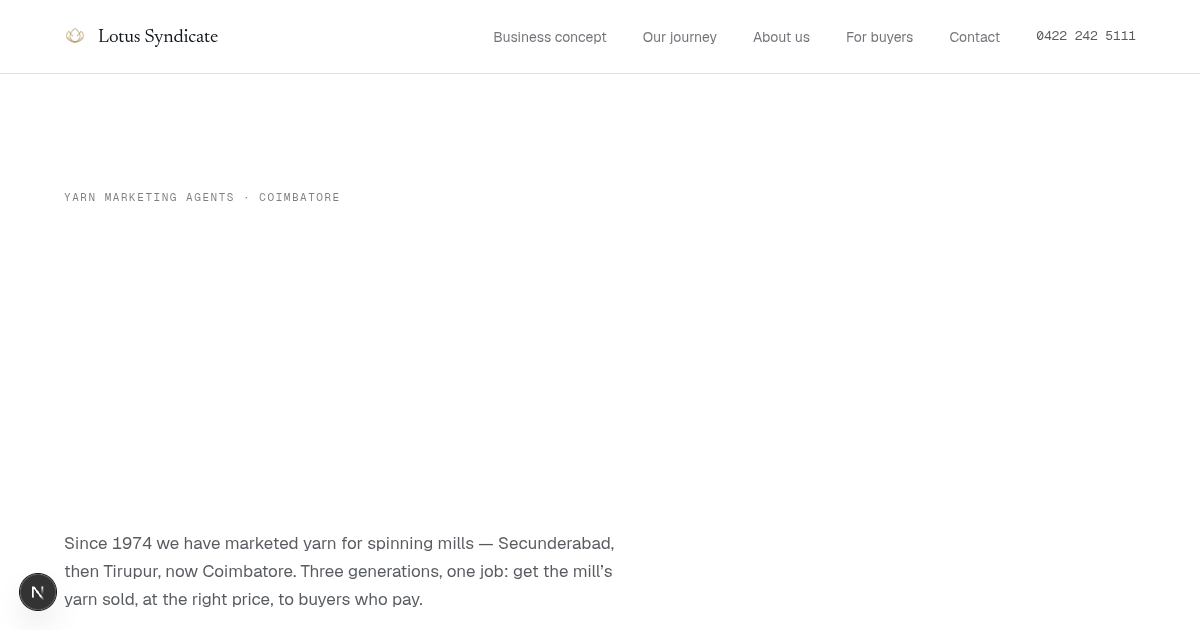
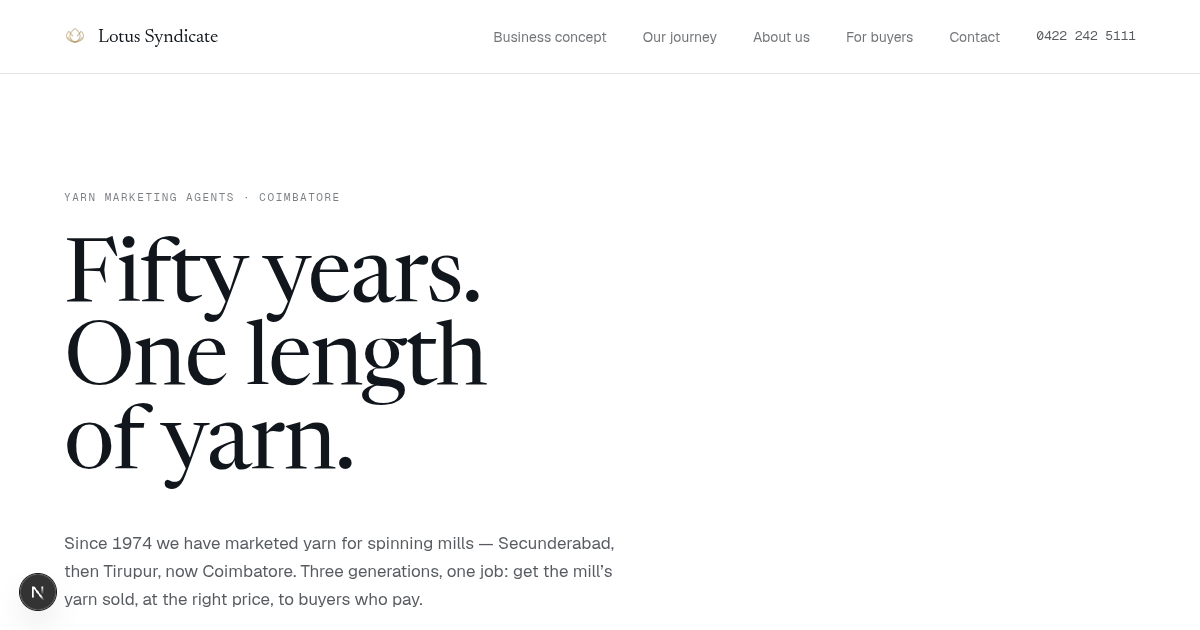
Fix contact shadow blending, thread fall, and the Static-tier still
The hand-rolled contact shadow used additive blending with a negative colour
on the assumption it would subtract. Fragment outputs are clamped at zero
before blending, so it painted a solid black disc under the cone instead.
Plain alpha over ink, which is what a shadow actually is.

Removing the hero payoff marker had left the thread cutting a diagonal
across the headline on its way to the first anchor further down the page.
The marker is back, low and roughly under the cone, so the strand drops.

The Static-tier still had the site chrome baked into it — the lab route
inherits the root layout — and shipped as a 680KB PNG, which defeats the
purpose of an asset that exists to serve the slowest devices. Chrome is
hidden before the screenshot and the source is 1x rather than 2x: 213KB PNG
and a 20KB WebP, against a display size of at most 360px.

Added an inline probe in the document head so the fallback does not flash on
capable devices. The still stays in the server HTML because that is what a
visitor with JavaScript disabled gets; the probe sets one attribute before
first paint and CSS hides it. Verified with JS off: full content, working
nav, working WhatsApp CTA, cone still, thread rule.

Claude-Session: https://claude.ai/code/session_01GU6cxYgHWZFrHjr91C8nqW

Changed region(s): [[0.0308, 0.3619, 0.4008, 0.6635], [0.0308, 0.6333, 0.3083, 0.754], [0.1233, 0.754, 0.1542, 0.7841]]

diff --git a/app/layout.tsx b/app/layout.tsx
@@ -33,6 +33,26 @@ export const viewport: Viewport = {
 export default function RootLayout({ children }: { children: React.ReactNode }) {
   return (
     <html lang="en-IN" className={fontVariables}>
+      <head>
+        {/*
+          The Static-tier still is in the server HTML on purpose — it is what a
+          visitor with JavaScript disabled gets. But on a capable device that
+          means a frame of cone image before React can decide the tier and
+          remove it. This runs before first paint, marks the document, and CSS
+          hides the fallback immediately. Deliberately tiny and synchronous: it
+          has to beat the first paint, and it does nothing but set one
+          attribute.
+        */}
+        <script
+          dangerouslySetInnerHTML={{
+            __html:
+              "try{var c=document.createElement('canvas');" +
+              "if(c.getContext('webgl2')&&!matchMedia('(prefers-reduced-motion: reduce)').matches" +
+              "&&!(navigator.connection&&navigator.connection.saveData))" +
+              "document.documentElement.dataset.canvas='1'}catch(e){}",
+          }}
+        />
+      </head>
       <body>
         <a href="#main" className="skip-link">
           Skip to content

diff --git a/components/dom/StaticFallback.tsx b/components/dom/StaticFallback.tsx
@@ -30,7 +30,7 @@ export function StaticFallback() {
   if (mode === 'canvas') return null;
 
   return (
-    <div aria-hidden="true" className="pointer-events-none fixed inset-0 z-[1]">
+    <div aria-hidden="true" className="static-fallback pointer-events-none fixed inset-0 z-[1]">
       {/* Where the thread would run. */}
       <span className="absolute inset-y-0 left-[7%] w-px bg-[var(--hairline)] md:left-[62%]" />
 
@@ -39,8 +39,8 @@ export function StaticFallback() {
         <img
           src="/assets/photos/cone-still.png"
           alt=""
-          width={1440}
-          height={1800}
+          width={720}
+          height={900}
           decoding="async"
           className="absolute right-[4vw] top-[20vh] h-auto w-[42vw] max-w-[360px] md:right-[9vw] md:top-[16vh]"
         />

diff --git a/app/globals.css b/app/globals.css
@@ -135,6 +135,11 @@
 }
 
 @layer components {
+  /* Set by the inline probe in the document head, before first paint. */
+  html[data-canvas='1'] .static-fallback {
+    display: none;
+  }
+
   /* The tail of the footer knot drawing the mark: one continuous stroke.
      260 is comfortably longer than the path, so the dash fully clears it. */
   .lotus-draw {

diff --git a/DECISIONS.md b/DECISIONS.md
@@ -21,7 +21,7 @@ Current gzipped transfer for `/`, measured against the exported site with
 | Site code, routes, prefetches | ~43 KB |
 | **Total JavaScript** | **353 KB** |
 | Fonts | 267 KB |
-| Textures (lazy, with the canvas) | 221 KB |
+| Images, incl. lazy textures | 189 KB |
 
 The budget is 320KB. three.js alone is 167KB and React plus the Next runtime is
 about 98KB — 265KB before a single line of this site or any way to put three.js
